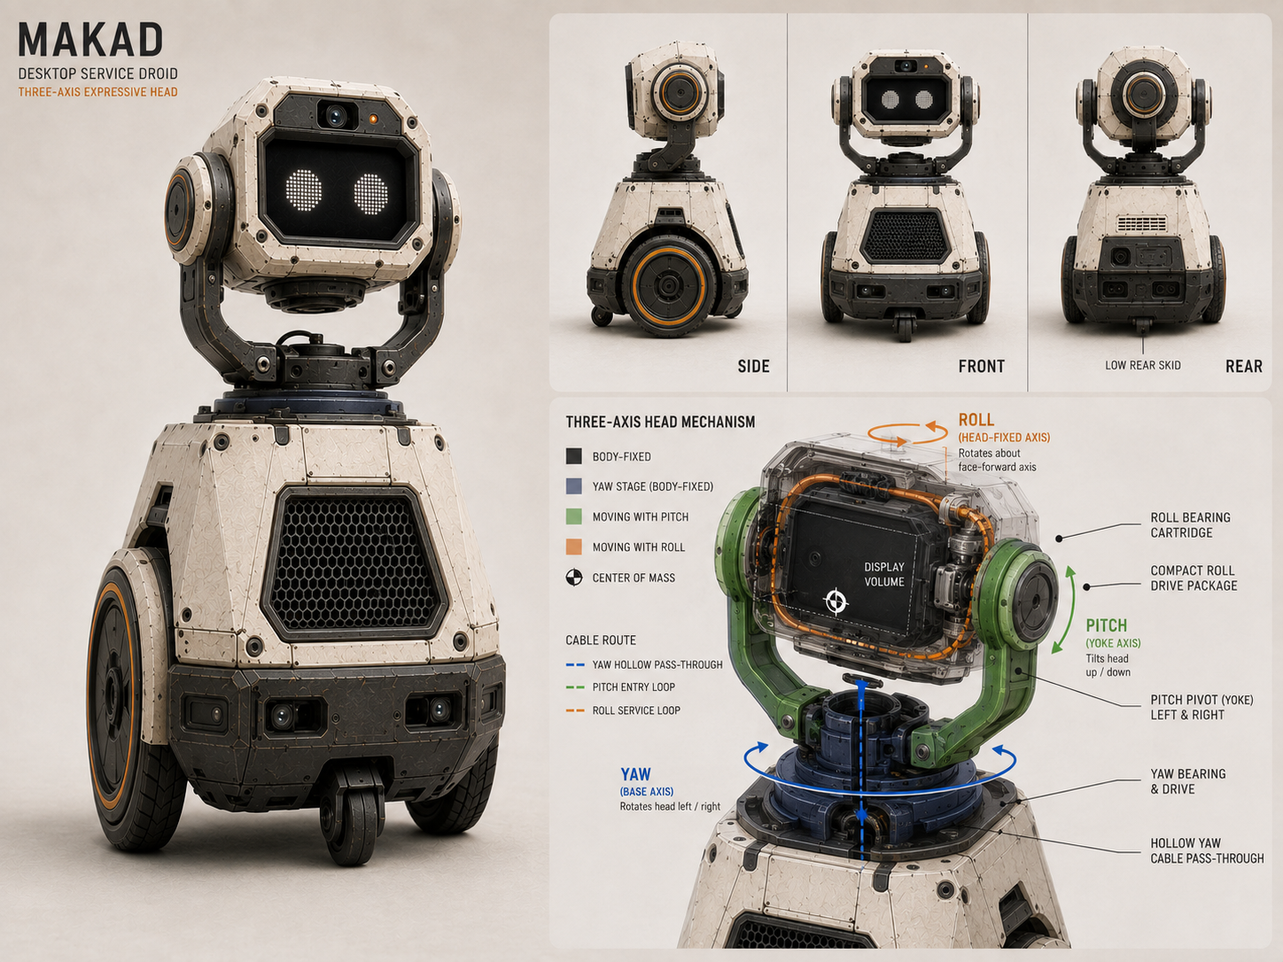
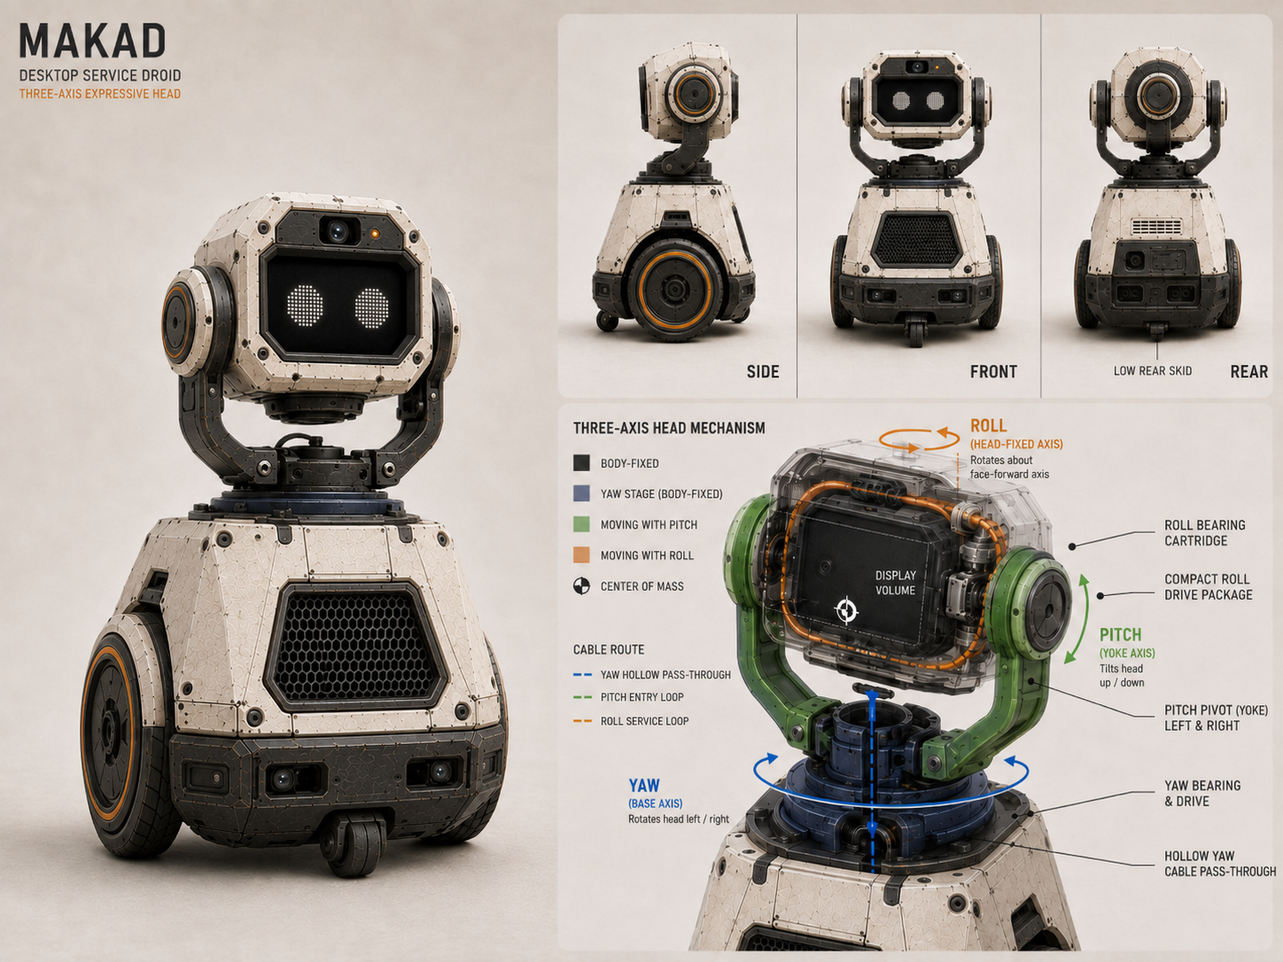
visuals changed

diff --git a/docs/01-system/head-harness-routing-study.md b/docs/01-system/head-harness-routing-study.md
@@ -1,0 +1,102 @@
+# Makad V1 Moving-Head Harness Routing Study
+
+| Field | Value |
+|---|---|
+| Status | **Research-backed candidate architecture — no production harness selected** |
+| Version | 0.1 |
+| Owner | Project builder |
+| Created | 2026-08-29 |
+| Last reviewed | 2026-08-29 |
+| Feeds | RP-01 mechanism/cable rig, RP-02 electrical backbone, RP-06 layout, ADR-02/ADR-03/ADR-08/ADR-12 |
+| Fixed inputs | Bounded roll/pitch/yaw; body-mounted primary compute; selected Camera Module 3 Wide SC0874; selected Waveshare display SKU 30493 |
+
+## Decision boundary
+
+Makad V1 does **not** need unlimited yaw. Slip rings therefore remain out of the active V1 architecture unless a later requirement introduces continuous rotation or the service-loop concepts fail their registered workspace/endurance gates. This note does not select a cable SKU, connector family, CSI bridge or production harness. It converts external examples into candidate geometry and a test protocol.
+
+The central problem is not simply cable flexibility. A viable assembly must simultaneously preserve camera signal integrity, remain inside the 60 mm neck/head-intrusion package, contribute acceptable moving mass, avoid objectionable restoring torque, protect connector exits and remain replaceable.
+
+## What the cited designs actually support
+
+| Evidence | Supported lesson | Important limit |
+|---|---|---|
+| Bosch [US20100128122A1 / US8325229B2](https://patents.google.com/patent/US20100128122A1/en) | An anti-rotation arm moves the FFC endpoint with the camera so its tilt region bends along its length in one plane instead of twisting during pan. This is directly useful as a geometry pattern. | Bosch still uses a slip ring for pan. It does not prove that the same FFC can cross Makad's three axes unaided. |
+| [Humanoid robot with advanced wiring assembly](https://exa.ai/library/legal/patent/xh7d1t7842qnmw2v6ncyp8) | Through-bore wiring, adjacent-actuator bundles and constraining a moving wire portion to one degree of freedom can reduce pinch exposure and the length that must move. | This is a patent architecture, not an industry mandate. Passive segmentation at every joint may damage MIPI CSI impedance and loss budgets. |
+| [igus chainflex robotic cables](https://www.igus.com/cables/robotic-cables) | Continuous-flex/torsion cable is a real qualified product category; igus advertises variants through ±180° per 3 ft and up to ±360°/m with millions-of-cycle testing. | The family page does not establish that a small, camera-compatible cable exists for Makad. OD, mass, protocol, conductor geometry, shield and connector termination still need an exact quote/datasheet. |
+| [Newnex high-flex active USB3](https://newnex.com/high-flex-active-usb-3-cable.php) | A vendor can qualify live USB streaming during millions of cycles rather than offering only static continuity data. Newnex states ≥6 million cycles. | Its stated dynamic radius is approximately 75 mm (12× cable OD), already larger than Makad's 60 mm neck allocation; this exact long active cable is evidence of the category, not a current fit candidate. |
+| [Adapted Pepper](https://ar5iv.labs.arxiv.org/html/2009.03648) | A research team routed Ethernet and USB externally through the chest because routing through Pepper's removable moving neck required too much integration work. External bypass is a legitimate prototype/fallback route. | Pepper's geometry, camera and duty cycle differ. The paper demonstrates integration cost, not an internal-harness impossibility. |
+| [Robot vision moving-cable guide](https://roboticscableassembly.com/blog/robot-vision-cable-assemblies-moving-joints) | Test at the installed radius while monitoring live data; inspect connector exits/clamps at milestones; treat the first 30–50 mm after a connector as a design input; use 100k/250k/500k+ screens proportional to risk. | This is supplier guidance, not a neutral standard. Cycle thresholds must be derived from Makad's duty/life target and frozen before scored testing. |
+
+The universal “slip rings start at ±180–270°” claim is **not** adopted as a hard threshold. Makad avoids a slip ring because its actual authored ranges are bounded and a service-loop solution is lighter/simpler if it passes. The decision is driven by Makad's geometry and evidence, not a vendor slogan.
+
+## Candidate V1 harness architecture
+
+### 1. Partition by function
+
+Do not force every circuit into one physical cable strategy.
+
+| Branch | Candidate treatment |
+|---|---|
+| Camera MIPI CSI-2 | Its own controlled-impedance route. Keep passive connector count minimal; use a continuous guided FPC or an explicitly compatible active bridge. |
+| Display/head-node power and semantic link | Fine-strand power plus UART/USB/CAN candidate as RP-02 decides; may use joint-segmented replaceable branches. |
+| Servo power/bus | Sized and shielded/separated for peak current and noise; route near each axis without sharing camera strain relief. |
+| IMU/status-light/local signals | Keep local to the head node where practical so only low-bandwidth aggregate traffic crosses the neck. |
+
+### 2. Condition motion one joint at a time
+
+For Concept A's body-fixed yaw → elevated pitch → head-fixed roll stack:
+
+1. Enter yaw close to the yaw axis through the open/hollow centre and give yaw its own controlled loop or helical section.
+2. Fix the downstream reference at the yoke so yaw motion is not passed into the pitch loop as uncontrolled torsion.
+3. Enter pitch near one pitch pivot and guide a rolling, predominantly single-plane bend.
+4. Fix the downstream reference again before the roll branch.
+5. Give roll its own short symmetric loop or purpose-designed torsion section near the roll axis.
+6. Provide strain relief and a service break only where connector access and signal integrity justify it.
+
+“One moving segment per degree of freedom” is the preferred **mechanical decomposition**, not a command to insert an electrical connector after every axis. Low-speed branches may be connectorized per joint. The CSI branch must remain continuous unless the exact connector/adapter/bridge path is proven at its lane rate.
+
+### 3. Control FFC orientation
+
+Borrow the Bosch anti-rotation principle without copying its slip-ring architecture: use guides, saddles or rotating anchors so each FFC flex zone has a defined neutral shape and bends about the intended axis. Do not allow a flat cable to decide its own compound bend-plus-twist shape inside an empty cavity.
+
+The guide must not create a hard hinge, scrape an edge, pinch at an extreme pose or load the camera ZIF. Clamp position and free length are configuration-controlled dimensions.
+
+## Camera-link concepts to put on the RP-01 rig
+
+| ID | Link concept | Why test it | Main failure mode |
+|---|---|---|---|
+| H1 | Continuous camera-compatible FPC with three mechanically isolated flex zones | Lowest head electronics and protocol conversion mass | Ordinary FPC may lack dynamic rating; compound motion or ZIF load may remain |
+| H2 | Short static CSI FPC in the head → compatible active bridge → purpose-built fine high-flex round link across the joints | Moves the difficult flex duty onto a cable family that may have published dynamic data | Bridge mass/power/heat/latency; no exact IMX708-compatible bridge or cable selected yet |
+| H3 | External protected bypass near the joint axes | Fastest diagnostic route and a credible prototype fallback when internal packaging blocks progress | Visual compromise, snag/service risk and uncertain effect on motion |
+
+Do not buy the cited Newnex active cable as H2: its stated 75 mm dynamic radius is not compatible with the current neck package. Ask igus/Newnex or a local cable-assembly supplier for an exact lightweight construction only after the pose map, conductor/protocol requirement, installed radii and target cycles are known.
+
+## RP-01 endurance protocol candidate
+
+Freeze the final thresholds before scored testing. The first fixture protocol should include:
+
+1. Build the exact installed route with production-intent clamps, guides, connector retention, mount and cover clearances.
+2. Record every axis range, minimum installed radius, free length, clamp coordinate, connector-exit straight length and worst torsion angle. Photograph neutral and all extreme/recovery poses.
+3. Measure cable restoring torque versus angle on each axis before cycling, including both sweep directions and unpowered pull.
+4. Run a motion script containing individual yaw/pitch/roll sweeps, combined authored moves, reversals, extreme dwell, home/recovery and the realistic busy-minute sequence.
+5. Stream the selected camera continuously. Log frame sequence/timestamps, frame gaps/drops, capture errors, driver/kernel camera errors, device resets/re-enumeration where applicable and visible corruption. Static continuity before/after is insufficient.
+6. Run representative servo power, display animation and communications concurrently so EMI and voltage interactions are present.
+7. Stop at configuration-controlled milestones for photographs and inspection of clamp creep, guide wear, FPC whitening/delamination, shield/jacket abrasion, connector/backshell rotation and ZIF movement. Candidate milestones: 0, 50k and 100k cycles; continue to 250k and 500k only when the registered duty/life target requires them.
+8. Re-measure restoring torque and camera error/latency behaviour after each milestone. Any route or clamp change creates a new configuration and restarts comparable evidence.
+9. Time replacement of the most exposed branch without disturbing unrelated structure.
+
+One “cycle” must be defined by the exact pose sequence, not by a motor revolution counter. Final cycle-life acceptance must be derived from expected motions per busy minute × required operating life × safety factor.
+
+## Immediate design outputs
+
+- Add H1/H2/H3 routing volumes and clamp points to the Concept A section blockout.
+- Produce a branch map listing camera, display/head node, servo power/bus and local sensor/light circuits separately.
+- Draw neutral, all extrema and recovery pose cable geometry before requesting quotes.
+- Keep the supplied Camera Module 3 FPC for static image/driver work only until H1 earns moving use.
+- Request exact OD, mass per metre, dynamic radius, torsion rating, conductor/shield construction, connector termination and cycle-test conditions from any high-flex supplier.
+- Carry all moving cable, guides, clamps, adapters and connector-retention hardware in the 250 g head mass tree and per-axis moving-mass sets.
+
+## Selection rule
+
+Select the production harness only when one candidate passes packaging, restoring-torque, live-signal endurance, installed mass/CoM, EMI/concurrent-load and service-replacement gates. Reopen the selected camera module only if no viable interconnect can be produced without disproportionate mass, latency, cost or architecture change under `camera-candidate-study.md` change control.
+

diff --git a/docs/01-system/candidate-sourcing-matrix.md b/docs/01-system/candidate-sourcing-matrix.md
@@ -3,7 +3,7 @@
 | Field | Value |
 |---|---|
 | Status | **Living. Face display and head camera selected; remaining rows are candidates unless explicitly marked otherwise.** |
-| Version | 0.12 |
+| Version | 0.13 |
 | Owner | Project builder |
 | Created | 2026-08-17 |
 | Last reviewed | 2026-08-29 |
@@ -34,7 +34,7 @@ Topology (SBC + MCU split, compute placement, bus, timebase) is a provisional op
 |---|---|---|---|---|---|---:|---:|---|---|---|
 | **Face display — SELECTED** | **Waveshare ESP32-S3-LCD-4.3 no-touch, SKU 30493**; 800×480 IPS, integrated ESP32-S3/LVGL renderer, ~106.1×67.8 mm. Exact module is locked; alternatives require recorded hard-failure change control. See `display-candidate-study.md` and `display-shopping-brief.md`. | Supplier not locked; Hubtronics India is the verified lead | ₹3,065 incl. GST and two units shown in stock on 2026-08-29; reconfirm before payment | Domestic shipping estimate to be confirmed | Contingency references only: Waveshare 43H-800480-IPS no-touch DSI SKU 24159; DWIN DMG80480T043_09WN | 1 sample; second only after acceptance | **3,065 verified lead; planning allowance 3,000–4,600** | Med until actual mass, repeat stock, optical result and sustained animation test close | Current logger, scale, temperature/frame-time logging, smoked-window samples | ~106×68 mm body needs hidden cavity behind the 110–120×60–65 mm visible opening; listed 118 g is not accepted as installed mass until sample is weighed |
 | Smoked face window | Acrylic/PC fitting ~110–120 W × 60–65 H mm opening, hides display edges | Local acrylic | Common | 0–2 d | Tint film over clear panel | 1 | 200–800 | Low | Cutting | Laser/print fit |
-| **Camera — SELECTED** | **Raspberry Pi Camera Module 3 Wide, visible-light/IR-cut, order code SC0874**; IMX708, 11.9 MP, 120° diagonal / 102° horizontal / 67° vertical, autofocus, HDR, 25 × 24 × 12.4 mm, MIPI CSI-2. Exact module is locked; see `camera-candidate-study.md`. | Supplier not locked; ElectroPi and Silverline are current leads | ElectroPi listed 62 units and Silverline listed in stock on 2026-08-29; reconfirm | Domestic dispatch estimate to be confirmed | Contingency only: Arducam B031202 after recorded change control | 1 sample; second only after acceptance | **3,088–3,210 verified listings; planning allowance 3,000–4,500** | Med until actual mass, SBC compatibility, image/latency and moving-interconnect tests close | Camera calibration target, frame timestamp/latency logger, cable endurance fixture, scale | Central lens/LED/display clearance; complete module, mount, connector and three-axis moving cable mass/CoM. Supplied 200 mm FPC is bench-usable but not accepted as a dynamic harness by assumption |
+| **Camera — SELECTED** | **Raspberry Pi Camera Module 3 Wide, visible-light/IR-cut, order code SC0874**; IMX708, 11.9 MP, 120° diagonal / 102° horizontal / 67° vertical, autofocus, HDR, 25 × 24 × 12.4 mm, MIPI CSI-2. Exact module is locked; see `camera-candidate-study.md`. | Supplier not locked; ElectroPi and Silverline are current leads | ElectroPi listed 62 units and Silverline listed in stock on 2026-08-29; reconfirm | Domestic dispatch estimate to be confirmed | Contingency only: Arducam B031202 after recorded change control | 1 sample; second only after acceptance | **3,088–3,210 verified listings; planning allowance 3,000–4,500** | Med until actual mass, SBC compatibility, image/latency and moving-interconnect tests close | Camera calibration target, live frame/error/latency logger, axis-conditioned cable endurance fixture, scale | Central lens/LED/display clearance; complete module, mount, connector and three-axis moving-link mass/CoM. Supplied 200 mm FPC is bench-usable only until the H1/H2/H3 evidence in `head-harness-routing-study.md` selects a production interconnect |
 | Status light | Addressable LED beside camera (SCOPE-17) | Elegoo / Robu | On hand | 0 | Single-colour LED + driver | 1+ | 100–500 | Low | Soldering | Optic/diffuser |
 | Head actuators (roll/pitch/yaw) | Smart servos/geared motors + feedback for ~250 g head; Concept A uses body-fixed yaw and moving pitch/roll, with candidate selection gated by transient torque-speed plus busy-minute RMS/current/thermal evidence | Robu / Zbotic / MG Super Labs | Mixed; re-check exact SKU | 0–10 d | Feetech STS class ↔ DYNAMIXEL XL/XC class | 3+ plus one bench sample where needed | 3,000–34,000 | Med–High (exact SKU/cost) | Current/voltage logging, output indicator | 60 mm neck allocation, near-CoM gimbal centre, direct actuation first |
 | Head joint structure | Compact yaw load-bearing shaft/bearing, rising pitch yoke with double ear pivots, and an unresolved display-clear roll support; compare rear spaced-bearing cartridge, annular/perimeter support and displaced roll axis. Ear shells are removable covers, not the structural load path | Local bearing supplier / fabricated parts | Common classes, exact sizes TBD | 0–7 d | Small radial/angular-contact pair ↔ suitable compact supported shaft/ring | set | 500–3,000 | Med until roll load path closes | Printer/machining/measurement | Concept A section blockout; must prove display clearance, overhung moment/deflection, mass and 60 mm fit before CAD freeze |
@@ -98,3 +98,4 @@ This is a **planning envelope to gate procurement decisions**, not a budget comm
 | 2026-08-29 | 0.10 | Project builder selected and locked Waveshare no-touch SKU 30493 as the V1 face display; retained supplier choice and measured integration evidence as open items. |
 | 2026-08-29 | 0.11 | Added the exact head-camera shortlist and preferred Camera Module 3 Wide first-sample direction; kept camera and interface unselected pending body-SBC compatibility and CSI-versus-USB moving-harness evidence. |
 | 2026-08-29 | 0.12 | Project builder selected and locked the visible-light Raspberry Pi Camera Module 3 Wide, order code SC0874; retained supplier, body SBC and production moving interconnect as separate decisions and converted the seven camera conditions into acceptance/change-control evidence. |
+| 2026-08-29 | 0.13 | Added the source-grounded H1/H2/H3 moving-link study and axis-conditioned live-signal endurance direction; no production harness selected. |

diff --git a/docs/02-prototypes/RP-01-head/gates.md b/docs/02-prototypes/RP-01-head/gates.md
@@ -38,7 +38,7 @@ This matrix prepares coverage from `storyboard.md`; it does **not** freeze a thr
 | Multi-axis recoil | `HM-15` startle; 250/180 ms outbound only | G01–G04 | simultaneous three-axis load, freeze/ringing, separate slower recovery and interruption; not an individual-axis peak |
 | Loaded pitch structural dynamics | Best laugh's 7°/100 ms reversal under representative mass | G03, G04 | candidate first loaded pitch mode ≥30 Hz minimum / ≥40 Hz unshaped best case, plus damping and commanded ring-down; otherwise validate shaping/slower motion |
 | Loaded yaw/roll structural dynamics | Fast no and wobble under representative mass | G03, G04 | candidate first loaded mode ≥25 Hz / ≥30 Hz plus measured damping and commanded ring-down |
-| Harness restoring load | Complete candidate head harness through yaw/pitch/roll workspace | G03–G05 | angle-dependent restoring torque, slow-motion distortion, connector motion, bend/strain relief, endurance and unpowered pull; route must approach each joint near its axis |
+| Harness restoring load and live-signal endurance | Complete H1/H2/H3 candidate head harness through yaw/pitch/roll workspace, with the selected camera streaming and representative concurrent electrical load | G03–G06 | angle-dependent restoring torque, slow-motion distortion, clamp/connector motion, actual installed radii/torsion, strain relief, frame gaps/drops, capture/driver errors, visible corruption, reset/re-enumeration, milestone inspection and unpowered pull. Route must approach each joint near its axis; candidate milestone counts and the exact definition of one cycle must be frozen before scored use. |
 | Busy-minute actuator duty | Preregistered realistic busiest one-minute sequence assembled from the storyboard | G02–G06 | transient torque/current at required speed kept separate from RMS/current/thermal acceptance; voltage sag and all actuator temperatures logged before selection |
 | Head/body IMU role separation | Head IMU on moving output; body IMU or body-attitude proxy recorded where chassis disturbance is in scope | G03, G04, G06 | head settling/compliance/modal data is not misreported as body heading; joint/body/head timestamps are correlatable |
 | Profile-law conformance | Every scored motion segment | G03, G06 | logged/exported trajectory identifies profile code and version; measured `ω/α/jerk` remain within the registered authored case and `Cᵥ≤2.0`, `Cₐ≤2π` rapid-profile envelope |

diff --git a/docs/02-prototypes/RP-01-head/concepts/elevated-ear-pivot-serial-gimbal.md b/docs/02-prototypes/RP-01-head/concepts/elevated-ear-pivot-serial-gimbal.md
@@ -90,16 +90,18 @@ Before Concept A can be selected, a section through the face, selected no-touch 
 
 ## 6. Cable route
 
-The mechanical concept is incomplete without a harness model:
+The mechanical concept is incomplete without a harness model. Apply the evidence and H1/H2/H3 candidates in `../../../01-system/head-harness-routing-study.md`:
 
-- keep the yaw centre hollow/open and route the bundle close to the yaw axis;
-- approach pitch through the yoke and enter near an ear pivot;
-- provide one deliberate downstream service loop for roll;
-- provide stationary- and moving-side strain relief plus service connectors;
+- partition camera CSI, display/head-node, servo power/bus and local sensor/light branches instead of forcing one cable construction across every circuit;
+- keep the yaw centre hollow/open, route each moving branch close to the yaw axis and give yaw a controlled loop/helical section;
+- fix the downstream orientation at the yoke, approach pitch near an ear pivot and guide a predominantly single-plane rolling bend;
+- fix orientation again before a deliberate short roll loop or purpose-designed torsion section;
+- provide stationary- and moving-side strain relief plus service connectors only where access and signal integrity justify them;
+- treat “one mechanical flex zone per degree of freedom” as the routing objective, but do not add passive connectors to the MIPI CSI path at every joint without lane-rate evidence;
 - avoid a slip ring at the current bounded yaw range;
-- measure angle-dependent cable restoring torque, connector motion and endurance for both candidate camera-link architectures.
+- measure angle-dependent cable restoring torque, connector motion and live-camera endurance for H1 continuous guided FPC, H2 active bridge/high-flex round link and H3 external diagnostic bypass.
 
-Cable torque is part of the slow-expression and static-hold load, not merely an integration note.
+Cable torque is part of the slow-expression and static-hold load, not merely an integration note. Clamp coordinates, free lengths, installed radii and connector-exit lengths are controlled configuration dimensions.
 
 ## 7. IMU roles
 

diff --git a/docs/02-prototypes/RP-01-head/rig.md b/docs/02-prototypes/RP-01-head/rig.md
@@ -22,7 +22,7 @@ The fixture must support the same mechanism with adjustable ballast at the A0/A1
 - a fixed **25 × 24 × 12.4 mm** camera/lens/connector proxy for selected visible-light Camera Module 3 Wide SC0874, positioned centrally with status-light and display-reflection clearances;
 - a rigid 50.0 mm output lever and dial-indicator access on every axis;
 - a repeatable impact point and accelerometer/IMU mount for modal testing;
-- interchangeable complete harnesses routed through the candidate hollow/open yaw centre and pitch/roll service loops;
+- interchangeable H1/H2/H3 complete harnesses from `../../01-system/head-harness-routing-study.md`, with adjustable but recordable yaw/pitch/roll guides, clamp coordinates, free lengths and connector-exit strain relief; the fixture must support separate controlled flex zones without requiring passive CSI connectors at every joint;
 - physical stops beyond usable travel and a safe low-energy/unpowered test path.
 
 Loaded reversal hysteresis and modal frequency may share this fixture but are **different measurements**: fixed-command quasi-static alternating output torque plus hold dwells for hysteresis/hunting, then a separate impact/tap and commanded-ring-down test for structural modes.
@@ -37,6 +37,7 @@ Loaded reversal hysteresis and modal frequency may share this fixture but are **
 - Inline rail current/voltage logging for peak and preregistered busy-minute RMS/thermal runs.
 - Temperature sensors/readback on every actuator plus head electronics where fitted.
 - Bidirectional force gauge for cable restoring torque and the quasi-static output-load method; record both load-sweep directions at matched force/torque points.
+- Live selected-camera monitor logging frame sequence/timestamps, gaps/drops, capture/driver errors, visible corruption and device reset/re-enumeration where applicable while the harness moves; static continuity alone is insufficient.
 
 Every instrument entry records sampling rate, calibration/check method, uncertainty and run-record channel name before scored use.
 

diff --git a/docs/01-system/camera-candidate-study.md b/docs/01-system/camera-candidate-study.md
@@ -3,7 +3,7 @@
 | Field | Value |
 |---|---|
 | Status | **SELECTED AND LOCKED — Raspberry Pi Camera Module 3 Wide, visible-light/IR-cut, order code SC0874** |
-| Version | 0.2 |
+| Version | 0.3 |
 | Owner | Project builder |
 | Created | 2026-08-29 |
 | Last reviewed | 2026-08-29 |
@@ -46,6 +46,8 @@ The standard Camera Module 3 has greater face pixel density and a brighter nomin
 
 Do not treat a static FFC bend-radius claim as a flex-life rating. The selected harness must record conductor construction, connector retention, bend/twist geometry, service-loop length, installed mass, signal errors and endurance cycles.
 
+The candidate mechanical architecture and live-stream endurance protocol are now defined in `head-harness-routing-study.md`. Its preferred direction is axis-conditioned motion: give yaw, pitch and roll separate controlled flex zones while preserving a continuous controlled-impedance CSI path unless an exact active bridge is selected. Purpose-built industrial high-flex cables prove that qualified cable categories exist, but the currently cited long active USB example has a 75 mm dynamic radius and is not a Makad fit.
+
 ## Shopping criteria for other agents
 
 Use this minimum capture schema for every proposed camera:
@@ -85,3 +87,4 @@ Reopen the camera-module selection only after a recorded hard failure: procureme
 |---|---|---|
 | 2026-08-29 | 0.1 | Added the exact camera and moving-link shortlist, India leads, shopping criteria and seven-part lock gate. |
 | 2026-08-29 | 0.2 | Project builder selected and locked Raspberry Pi Camera Module 3 Wide, visible-light/IR-cut, order code SC0874; converted the prior lock gate into acceptance/change-control evidence and left supplier, body SBC and production moving interconnect open. |
+| 2026-08-29 | 0.3 | Linked the source-grounded moving-head harness study; adopted axis-conditioned flex zones and live-camera endurance monitoring as the active test direction while keeping the exact production interconnect unselected. |
